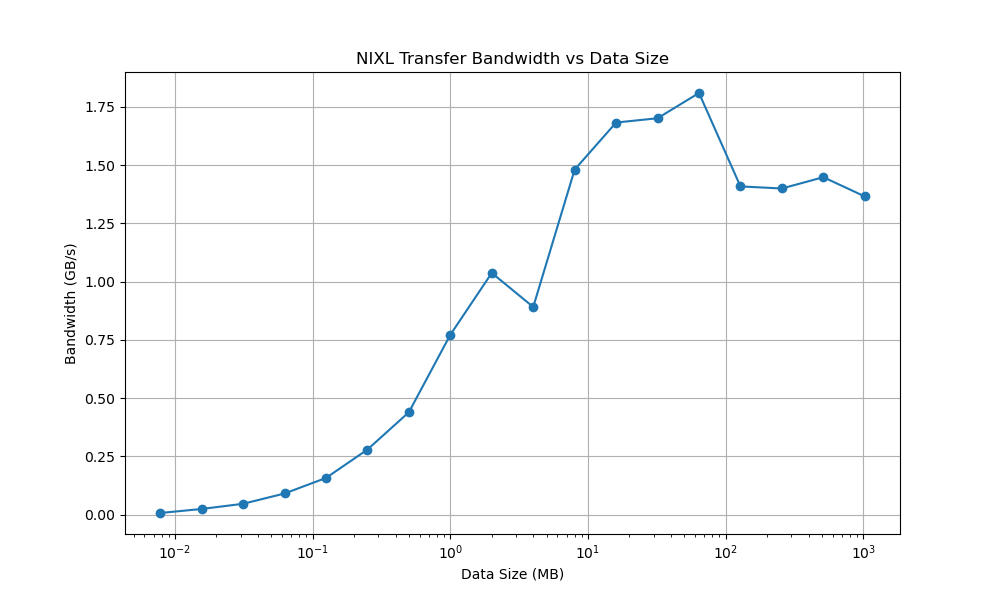
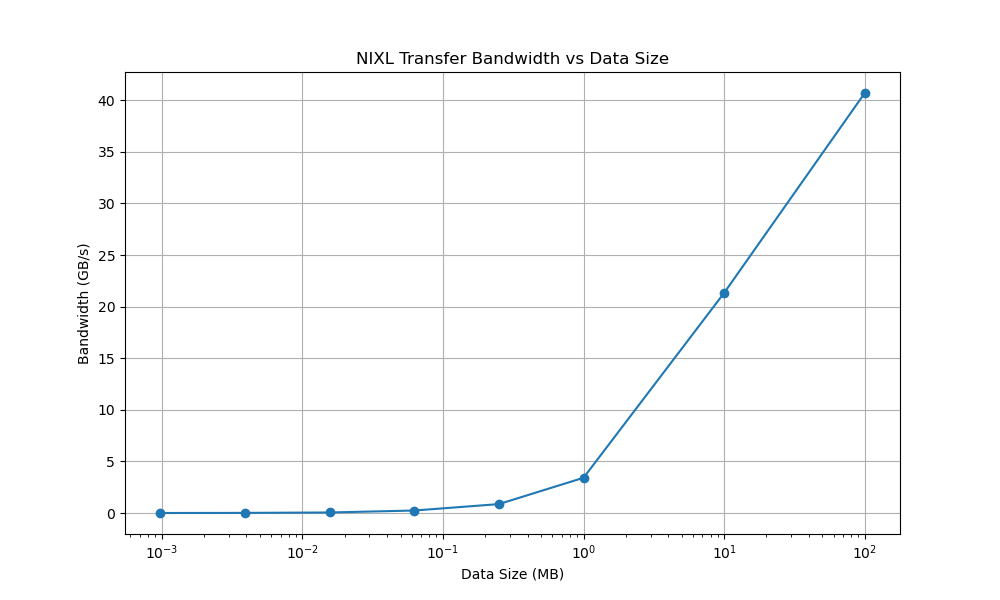
update scripts

diff --git a/examples/python/system_comparison_plot.py b/examples/python/system_comparison_plot.py
@@ -1,0 +1,64 @@
+import matplotlib.pyplot as plt
+import numpy as np
+import seaborn as sns
+
+BIG_SIZE = 11
+FIGRATIO = 3 / 4
+FIGWIDTH = 3.335 # inches
+FIGHEIGHT = FIGWIDTH * FIGRATIO
+FIGSIZE = (FIGWIDTH, FIGHEIGHT)
+
+plt.rcParams.update(
+{
+"figure.figsize": FIGSIZE,
+"figure.dpi": 300,
+}
+)
+
+COLORS = sns.color_palette("Paired")
+sns.set_style("ticks")
+sns.set_palette(COLORS)
+
+plt.rc("font", size=BIG_SIZE) # controls default text sizes
+plt.rc("axes", titlesize=BIG_SIZE) # fontsize of the axes title
+plt.rc("axes", labelsize=BIG_SIZE) # fontsize of the x and y labels
+plt.rc("xtick", labelsize=BIG_SIZE) # fontsize of the tick labels
+plt.rc("ytick", labelsize=BIG_SIZE) # fontsize of the tick labels
+plt.rc("legend", fontsize=BIG_SIZE) # legend fontsize
+plt.rc("figure", titlesize=BIG_SIZE) # fontsize of the figure title
+
+# Message sizes in bytes
+msg_sizes_bytes = [
+    1024,       # 1 KB
+    4096,       # 4 KB
+    16 * 1024,  # 16 KB
+    64 * 1024,  # 64 KB
+    256 * 1024, # 256 KB
+    1024 * 1024,  # 1 MB
+    10 * 1024 * 1024,  # 10 MB
+    100 * 1024 * 1024  # 100 MB
+]
+
+# Bandwidth data (GB/s)
+nccl_sendrecv = [0.04, 0.16, 0.60, 1.96, 7.60, 18.63, 39.60, 42.50]
+uccl_kvtrans   = [0.09, 0.36, 1.37, 5.10, 15.02, 27.76, 46.64, 49.11]
+ucx_perftest   = [0.16, 0.62, 2.28, 7.57, 17.01, 31.29, 41.67, 42.60]
+nixl_perftest = [0.00, 0.01, 0.05, 0.24, 0.87, 3.42, 21.33, 40.70
+    
+]
+# Convert message sizes to MB for plotting
+msg_sizes_mb = np.array(msg_sizes_bytes) / (1024 * 1024)
+
+plt.semilogx(msg_sizes_mb, uccl_kvtrans, marker='s', label='UCCL')
+plt.semilogx(msg_sizes_mb, nccl_sendrecv, marker='o', label='NCCL')
+# plt.semilogx(msg_sizes_mb, ucx_perftest, marker='^', label='UCX_perftest')
+plt.semilogx(msg_sizes_mb, nixl_perftest, marker='^', label='NIXL')
+
+plt.xlabel('Message Size (MB)')
+plt.ylabel('Throughput (GB/s)')
+# plt.title('Bandwidth vs Message Size')
+# plt.grid(True, which="both", ls="--")
+plt.legend()
+plt.tight_layout()
+plt.savefig('system-comparison.png')
+plt.close()

diff --git a/examples/python/blocking_send_recv_example.py b/examples/python/blocking_send_recv_example.py
@@ -59,12 +59,23 @@ def run_single_transfer(num_elements, args):
 
     config = nixl_agent_config(True, True, listen_port)
     agent = nixl_agent(args.mode, config)
+    plugin_list = agent.get_plugin_list()
+    print(plugin_list)
+    print("Plugin parameters")
+    print(agent.get_plugin_mem_types("UCX"))
+    print(agent.get_plugin_params("UCX"))
+
+    print("\nLoaded backend parameters")
+    print(agent.get_backend_mem_types("UCX"))
+    print(agent.get_backend_params("UCX"))
+    print()
+    
     
     # Create tensors of specified size
     if args.mode == "target":
-        tensors = [torch.ones(num_elements, dtype=torch.float32) for _ in range(2)]
-    else:
         tensors = [torch.zeros(num_elements, dtype=torch.float32) for _ in range(2)]
+    else:
+        tensors = [torch.ones(num_elements, dtype=torch.float32) for _ in range(2)]
 
     reg_descs = agent.register_memory(tensors)
     if not reg_descs:  # Same as reg_descs if successful
@@ -108,9 +119,9 @@ def run_single_transfer(num_elements, args):
             ready = agent.check_remote_metadata("target")
 
         start_time = time.time()
-
+    
         xfer_handle = agent.initialize_xfer(
-            "READ", initiator_descs, target_descs, "target", b"UUID"
+            "WRITE", initiator_descs, target_descs, "target", b"UUID"
         )
 
         if not xfer_handle:
@@ -141,7 +152,8 @@ def run_single_transfer(num_elements, args):
 
         # Verify data after read
         for i, tensor in enumerate(tensors):
-            if not torch.allclose(tensor, torch.ones(num_elements)):
+            # if not torch.allclose(tensor, torch.ones(num_elements)):
+            if args.mode == "target" and not torch.allclose(tensor, torch.ones(num_elements)):
                 print(f"Data verification failed for tensor {i}.")
                 agent.deregister_memory(reg_descs)
                 return None
@@ -160,9 +172,23 @@ def run_single_transfer(num_elements, args):
 if __name__ == "__main__":
     args = parse_args()
 
+    msg_sizes_bytes = [
+        1 * 1024,          # 1 KB
+        4 * 1024,          # 4 KB
+        16 * 1024,         # 16 KB
+        64 * 1024,         # 64 KB
+        256 * 1024,        # 256 KB
+        1 * 1024 * 1024,   # 1  MB
+        10 * 1024 * 1024,  # 10 MB
+        100 * 1024 * 1024  # 100 MB
+    ]
+
+    # elements per tensor for each size  (size_bytes / (4 bytes/elem * 2 tensors))
+    element_counts = [size // 8 for size in msg_sizes_bytes]
+
     # Test sizes: number of float32 elements per tensor
     # Starting from 2K elements (8KB per tensor, 16KB total) to 256M elements (1GB per tensor, 2GB total)
-    element_counts = [2**i * 1024 for i in range(18)]  # 2K to 256M elements
+    # element_counts = [2**i * 1024 for i in range(18)]  # 2K to 256M elements
     bandwidths = []
 
     if args.mode == "initiator":